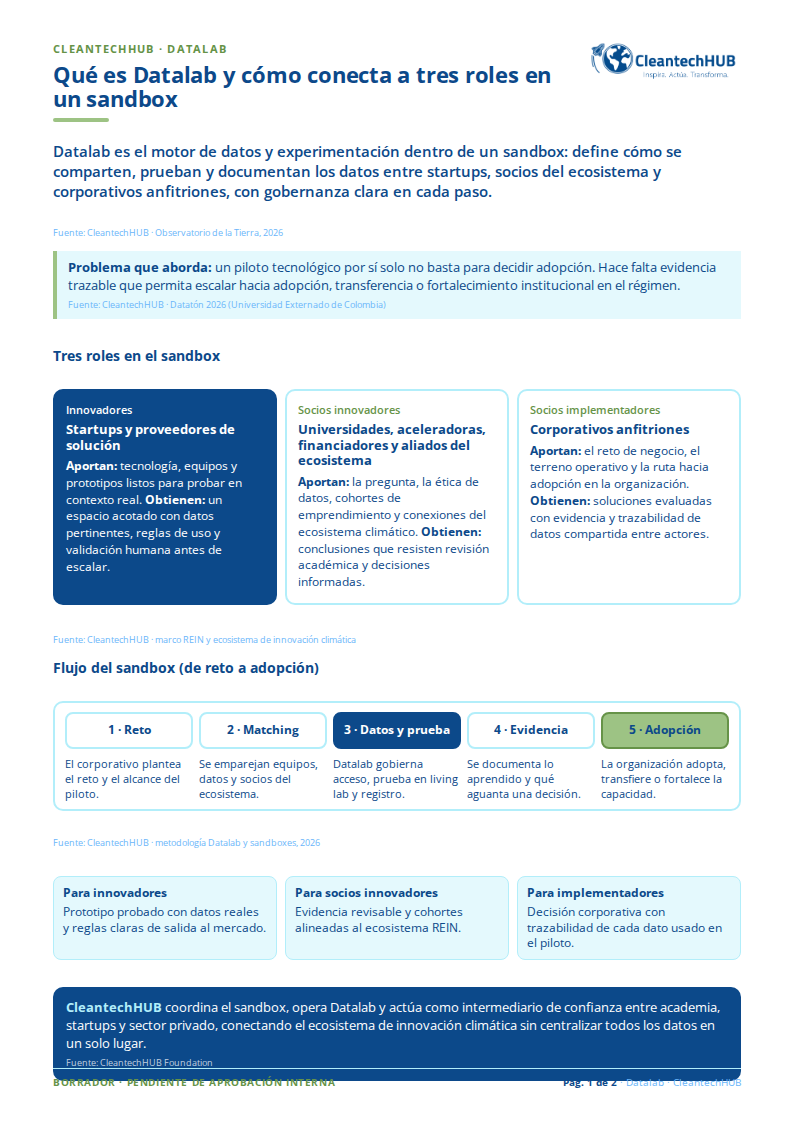
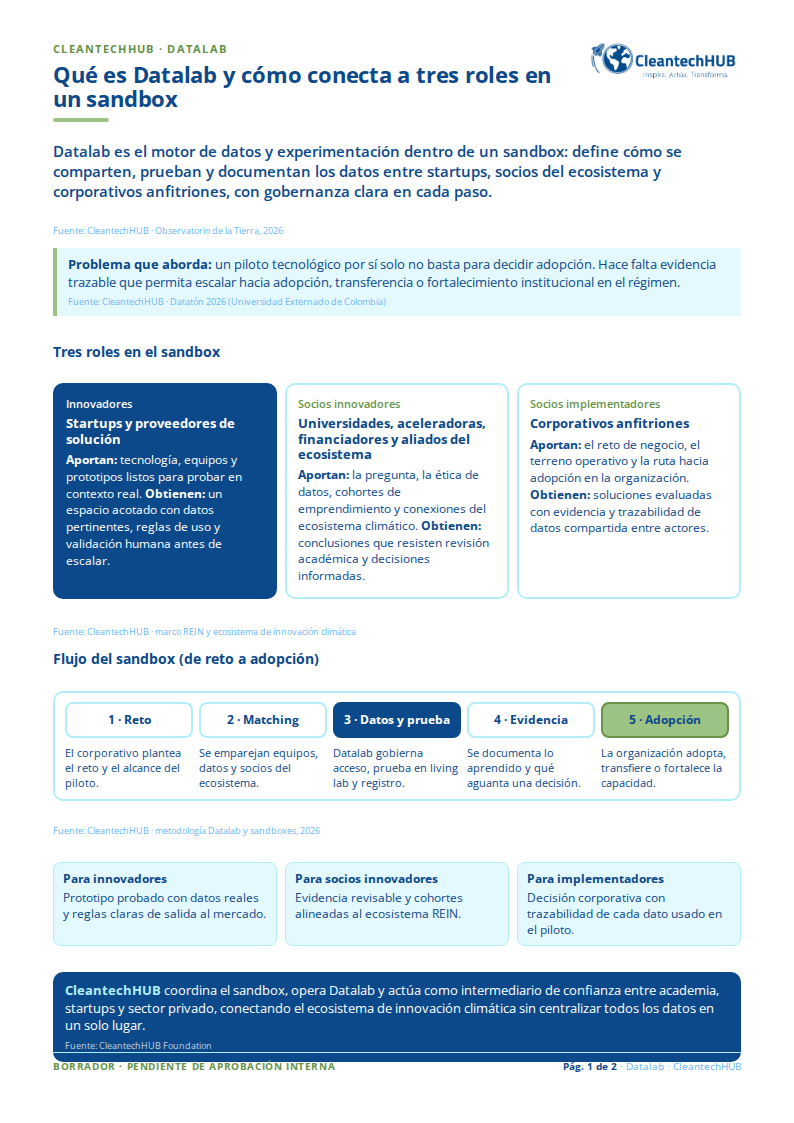
QA run 2: footer clearance, Datatón past tense, tighter example
Reserve fixed footer gap on page 1, shrink Datatón example box,
add sourced closing sentence in past tense.

Changed region(s): [[0.0605, 0.187, 0.937, 0.9662], [0.6348, 0.3428, 0.9068, 0.4987], [0.665, 0.5298, 0.937, 0.561]]

diff --git a/decks/datalab-factsheet-felipe/index.html b/decks/datalab-factsheet-felipe/index.html
@@ -56,7 +56,7 @@
       .page {
         width: 210mm;
         height: 297mm;
-        padding: 11mm 14mm 9mm;
+        padding: 11mm 14mm 13mm;
         page-break-after: always;
         display: flex;
         flex-direction: column;
@@ -70,12 +70,18 @@
         width: 210mm;
         height: 297mm;
         margin: 12px auto;
-        padding: 11mm 14mm 9mm;
+        padding: 11mm 14mm 13mm;
         background: var(--eo-white);
         box-shadow: 0 2px 12px rgba(12, 73, 138, 0.12);
         display: flex;
         flex-direction: column;
       }
+    }
+
+    .page-footer-slot {
+      flex-shrink: 0;
+      min-height: 6mm;
+      margin-top: auto;
     }
 
     .page-main {
@@ -84,9 +90,9 @@
       flex-direction: column;
       min-height: 0;
       justify-content: flex-start;
-      gap: 3.2mm;
+      gap: 2.8mm;
     }
-    #page-1 { font-size: 10.5pt; }
+    #page-1 { font-size: 10.25pt; }
     #page-1 .fp-flow-captions { font-size: 8.5pt; line-height: 1.34; margin-top: 6px; }
     #page-1 .fp-flow-step { font-size: 9pt; padding: 9px 5px; }
     #page-1 .fp-card { padding: 12px 11px; }
@@ -106,9 +112,15 @@
       padding: 8px 9px;
     }
     #page-1 .fp-outcomes strong { display: block; font-size: 9pt; margin-bottom: 3px; }
-    #page-1 .fp-callout { padding: 11px 13px; font-size: 10pt; }
+    #page-1 .page-main { flex: 0 1 auto; padding-bottom: 0; }
+    #page-1 .fp-callout { padding: 10px 12px; font-size: 9.75pt; margin-bottom: 0; }
+    #page-1 .page-footer-slot {
+      flex: 0 0 11mm;
+      min-height: 11mm;
+      margin-top: 0;
+    }
     #page-2 .page-main { justify-content: flex-start; gap: 3mm; }
-    #page-2 .fp-example { flex: 1 1 auto; min-height: 28mm; }
+    #page-2 .fp-example { flex: 0 0 auto; padding: 8px 10px; }
 
     .fp-head {
       display: flex;
@@ -284,7 +296,7 @@
       color: var(--eo-sky);
       border-top: 1px solid var(--eo-cyan);
       padding-top: 6px;
-      margin-top: 4mm;
+      margin-top: 0;
       width: 100%;
     }
     .fp-foot strong { color: var(--eo-deep); font-weight: 700; }
@@ -456,6 +468,7 @@
         <p class="cth-source" style="color:rgba(255,255,255,0.75);margin-top:5px;">Fuente: CleantechHUB Foundation</p>
       </div>
     </div>
+    <div class="page-footer-slot" aria-hidden="true"></div>
 
     <footer class="fp-foot">
       <span class="fp-draft">Borrador · pendiente de aprobación interna</span>
@@ -530,7 +543,8 @@
 
       <div class="fp-example avoid-break">
         <h3>Ejemplo: Datatón del Observatorio de la Tierra (24 nov 2026, Bogotá)</h3>
-        <p>En la Universidad Externado de Colombia, CleantechHUB presenta cómo opera Datalab dentro del Observatorio: a las 09:45 se abre la colaboración académica y a las 10:05 continúa el detalle de sandboxes y gobernanza de datos. El datatón reúne equipos para aplicar el método junto a la vitrina, el living lab y el producto de cliente.</p>
+        <p>En la Universidad Externado de Colombia, CleantechHUB presentó cómo opera Datalab dentro del Observatorio: a las 09:45 se abrió la colaboración académica y a las 10:05 continuó el detalle de sandboxes y gobernanza de datos. El datatón reunió equipos para aplicar el método junto a la vitrina, el living lab y el producto de cliente.</p>
+        <p>El cierre dejó claro que el motor de Datalab complementa el relato de colaboración y que una prueba tecnológica no es, por sí sola, evidencia de transformación.</p>
         <p class="cth-source" style="margin-top:5px;">Fuente: CleantechHUB · Datatón 2026, Universidad Externado de Colombia</p>
       </div>
 

diff --git a/decks/datalab-factsheet-felipe/SOURCES.md b/decks/datalab-factsheet-felipe/SOURCES.md
@@ -43,6 +43,7 @@ None in body copy. Funnel counts in `demo-promigas-quarto/www/i18n.js` are expli
 | Fuente: CleantechHUB · Datalab y gobernanza de datos, 2026 | `decks/observatorio-tierra-dataton/deck.yaml` (§9); `docs/html-deck-protocol.md`, `docs/brand-rules.md` (sandbox names) |
 | Fuente: CleantechHUB · REIN y colaboración público-privada | `decks/observatorio-tierra-dataton/deck.yaml` (title-bullets, partner-cards) |
 | Fuente: CleantechHUB · Datatón 2026, Universidad Externado de Colombia | `decks/observatorio-tierra-dataton/SOURCES.md`, `deck.yaml` meta, `index.html` |
+| Cierre Datatón (motor complementa colaboración; prueba ≠ transformación) | `decks/observatorio-tierra-dataton/deck.yaml` (closing), `index.html` (cierre) |
 
 ## Out of scope (not cited)
 
